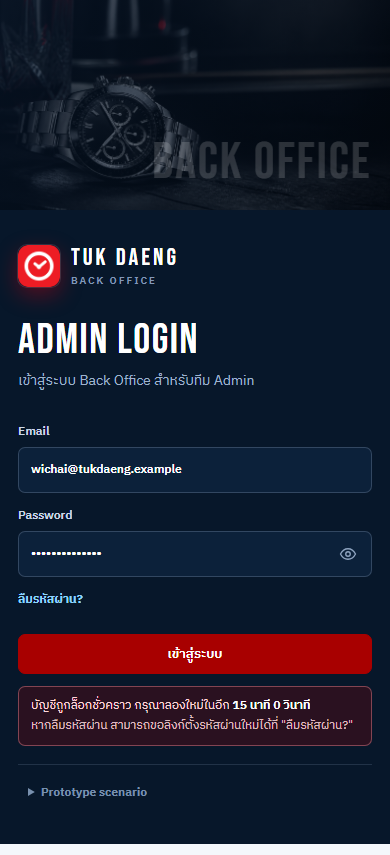
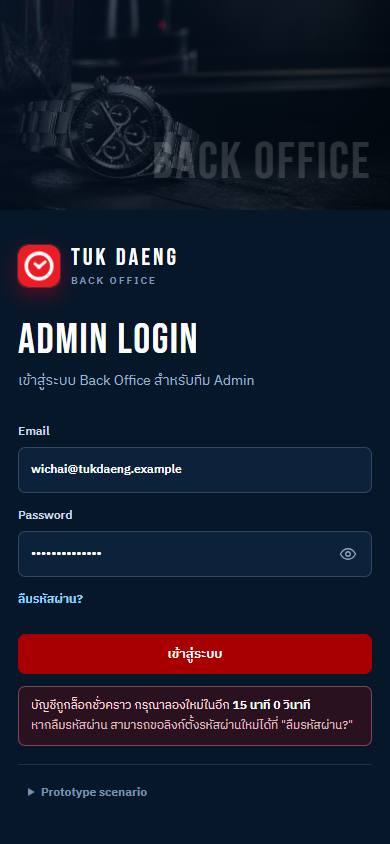
docs: recapture mission-2-obj3 mobile auth shots without fullPage
Fixed-viewport auth screens left a white strip on fullPage captures —
switch all mobile auth screenshots to viewport-only.

Generated with [Devin](https://devin.ai)

diff --git a/scripts/capture-m2-obj3-password-recovery.js b/scripts/capture-m2-obj3-password-recovery.js
@@ -152,31 +152,32 @@ async function shot(page, name, opts = {}) {
   await shot(page, "18-reset-account-blocked-generic");
 
   // ============ D. Mobile 390 ============
+  // auth screens เป็น fixed-viewport layout — viewport shot เท่านั้น (fullPage จะเหลือแถบขาว)
   await page.setViewportSize({ width: 390, height: 844 });
   await gotoLogin(page);
   await submitLogin(page, LOCKED_FAILED_LOGIN_EMAIL);
-  await shot(page, "m01-mobile-login-lockout", { fullPage: true });
+  await shot(page, "m01-mobile-login-lockout");
 
   await goToForgot(page);
-  await shot(page, "m02-mobile-forgot-ready", { fullPage: true });
+  await shot(page, "m02-mobile-forgot-ready");
   await page.locator("#forgot-email").fill(ACTIVE_EMAIL);
   await page.locator("#forgot-submit").click();
   await page.waitForSelector("[data-forgot-accepted]", { timeout: 5000 });
-  await shot(page, "m03-mobile-forgot-accepted", { fullPage: true });
+  await shot(page, "m03-mobile-forgot-accepted");
 
   await openReset(page, "ADM-010");
   await page.waitForSelector("#reset-form", { timeout: 5000 });
-  await shot(page, "m04-mobile-reset-form", { fullPage: true });
+  await shot(page, "m04-mobile-reset-form");
 
   await page.locator("#reset-password").fill(NEW_PASSWORD);
   await page.locator("#reset-password-confirm").fill(NEW_PASSWORD);
   await page.locator("#reset-submit").click();
   await page.waitForSelector("[data-reset-success]", { timeout: 5000 });
-  await shot(page, "m05-mobile-reset-success", { fullPage: true });
+  await shot(page, "m05-mobile-reset-success");
 
   await openReset(page, "ADM-010", { expiresAt: new Date(Date.now() - 60e3).toISOString() });
   await page.waitForSelector("[data-reset-failure]", { timeout: 5000 });
-  await shot(page, "m06-mobile-reset-expired", { fullPage: true });
+  await shot(page, "m06-mobile-reset-expired");
 
   await browser.close();
   console.log("done →", OUT);
